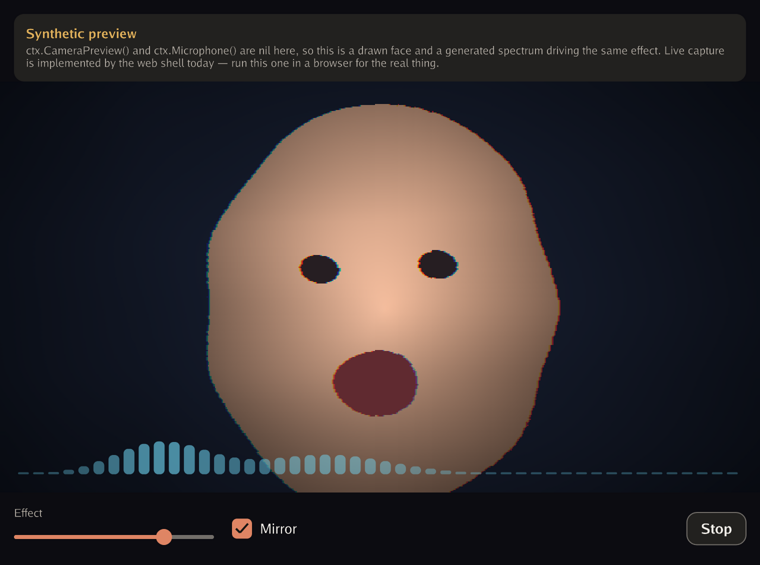
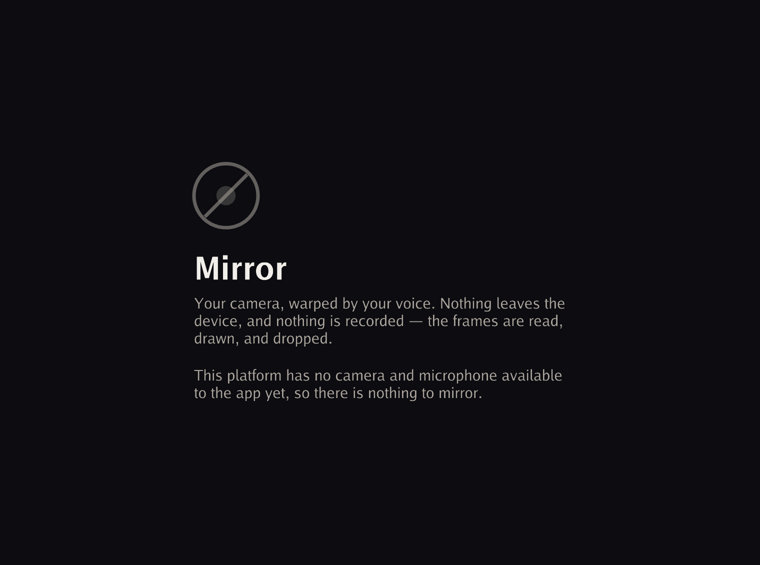
mirror: mark the shut-camera state, and refresh the stale gallery entry
The drawn face was removed a while ago — 111089b took out synthetic.go, the
stand-in source and its disclosure banner, because the label was not enough:
the demo looked like it worked on platforms where it did not, and it made the
gallery thumbnail a promise the app could not keep.

The thumbnail was never regenerated, so the gallery has been showing that face
ever since, over a caption explaining a synthetic preview the app no longer
does. The card's own text still said the app "runs on a drawn stand-in". Both
are corrected here.

Regenerating alone leaves the card a dark rectangle of grey paragraphs, which
reads as an app that crashed rather than one that declined — and it undersells,
because the card links to the web demo, where capture does work. So the refusal
state now carries a mark: a ring, a pupil, and a line through it. A shut lens
promises nothing, which is the line the drawn face crossed.

Circles come from a rounded rect whose radius is half its side; there is no
circle primitive and this needs no path.

No test added: TestRefusesWithoutCapabilities already holds the line that
matters — it says why it cannot run, and offers no button for a stream that
cannot open. A first draft of this commit added a second test asserting the
same things in different words, which is coverage of the test suite rather
than of the app.

diff --git a/docs/gallery.html b/docs/gallery.html
@@ -97,7 +97,7 @@
 
     <div class="card"><img class="thumb" src="thumbs/mirror.png" alt="voice-reactive mirror screenshot" loading="lazy"><div class="body">
       <h3>Mirror</h3>
-      <p>Your camera, warped every frame by what the microphone hears: columns of the image rise with the energy in their part of the spectrum, rows slide on a wave that grows with loudness, and the colour channels split as you get louder. The driver for the live-capture capabilities &mdash; frames arrive as <code>*image.RGBA</code> and the warp is a plain Go pixel loop, no shader. Needs camera and microphone permission; without them it runs on a drawn stand-in and says so.</p>
+      <p>Your camera, warped every frame by what the microphone hears: columns of the image rise with the energy in their part of the spectrum, rows slide on a wave that grows with loudness, and the colour channels split as you get louder. The driver for the live-capture capabilities &mdash; frames arrive as <code>*image.RGBA</code> and the warp is a plain Go pixel loop, no shader. Needs camera and microphone permission; without both it says so and offers nothing to press, rather than substituting a stand-in that would look like a working demo.</p>
       <div class="links"><a href="demo.html?demo=mirror">&#9654; run live</a><a href="source/mirror.html">source</a></div>
     </div></div>
 

diff --git a/examples/mirror/ui/mirror.go b/examples/mirror/ui/mirror.go
@@ -333,6 +333,16 @@ func (m *mirror) idle(th theme.Theme) widget.Widget {
 	if !m.live() {
 		// No substitute, and no button for a stream that cannot open. Saying so
 		// is the honest thing a capability-gated demo does.
+		//
+		// The mark above it is a closed lens, not a preview: a ring, a pupil and
+		// a line through it. It exists because this state is what the gallery
+		// thumbnail renders — headless, with no devices — and a page of nothing
+		// but grey text reads as an app that crashed rather than one that
+		// declined. Drawing a face here instead is what the fallback used to do,
+		// and it is the reason the fallback was removed: it promised a working
+		// demo the platform could not deliver. A lens with a line through it
+		// promises nothing.
+		kids = append([]widget.Widget{closedLens(th), widget.Sized{H: 22}}, kids...)
 		kids = append(kids, widget.Text{
 			S:    "This platform has no camera and microphone available to the app yet, so there is nothing to mirror.",
 			Size: th.Type.Body, Color: th.Muted, Wrap: true,
@@ -347,6 +357,33 @@ func (m *mirror) idle(th theme.Theme) widget.Widget {
 	}
 	return widget.Center(widget.Sized{W: 420, Child: widget.Padding{All: 24,
 		Child: widget.Flex{Axis: layout.Vertical, CrossAlign: layout.CrossStart, Children: kids}}})
+}
+
+// closedLens draws the shut-camera mark shown when the app cannot run: a ring,
+// a pupil, and a line across. Circles come from a rounded rect whose radius is
+// half its side, which is the whole trick — there is no circle primitive and
+// this needs no path.
+func closedLens(th theme.Theme) widget.Widget {
+	const box = 64
+	return widget.Sized{W: box, H: box, Child: widget.Canvas{Draw: func(c paint.Canvas, size geom.Size) {
+		d := min(size.W, size.H)
+		if d <= 0 {
+			return
+		}
+		ring := th.Muted.WithAlpha(0.55)
+		full := geom.RectXYWH((size.W-d)/2, (size.H-d)/2, d, d)
+		c.StrokeRRect(full, d/2, d*0.055, ring)
+
+		pupil := d * 0.30
+		c.FillRRect(geom.RectXYWH(full.Min.X+(d-pupil)/2, full.Min.Y+(d-pupil)/2, pupil, pupil),
+			pupil/2, th.Muted.WithAlpha(0.28))
+
+		// The line runs corner to corner across the ring, inset so its round
+		// caps sit on the rim rather than poking past it.
+		in := d * 0.17
+		c.Line(geom.Pt{X: full.Min.X + in, Y: full.Max.Y - in},
+			geom.Pt{X: full.Max.X - in, Y: full.Min.Y + in}, d*0.055, ring)
+	}}}
 }
 
 func (m *mirror) controls(th theme.Theme) widget.Widget {
